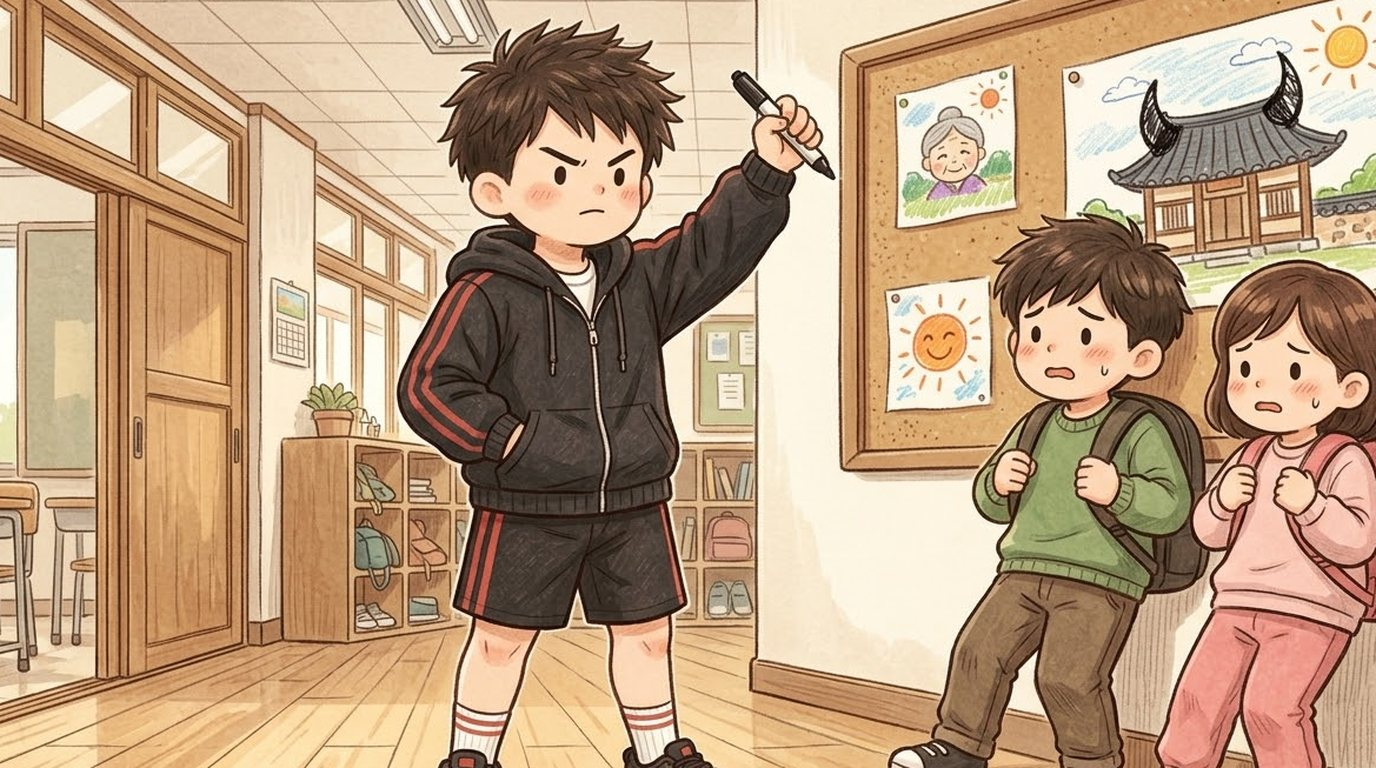
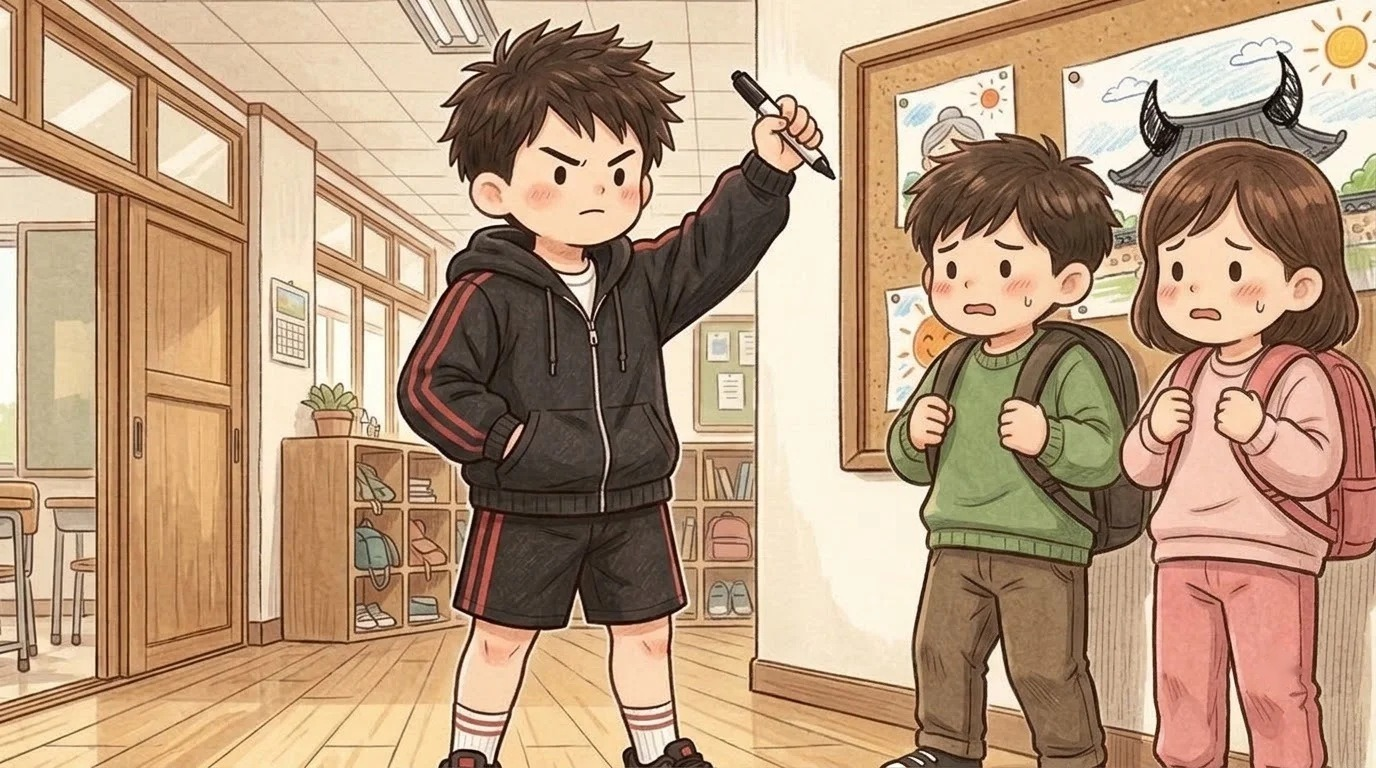
민호 13 복도: 초록·분홍 아이 키를 민호에 가깝게(그림 세션 Flow, 메인 크게 비교 확인)

diff --git a/index.html b/index.html
@@ -119,14 +119,14 @@ body,button{word-break:keep-all;overflow-wrap:break-word}
 <div id="fader"></div>
 <script>
 // same address, newest version: if the page this phone has kept is older than the one online, fetch the new one and reopen
-const BUILD='1108202656';
+const BUILD='1108202925';
 try{fetch(location.pathname,{cache:'no-store'}).then(r=>r.text()).then(t=>{const m=t.match(/const BUILD='(\d+)'/);if(m&&m[1]!==BUILD&&sessionStorage.getItem('upd')!==m[1]){sessionStorage.setItem('upd',m[1]);fetch(location.pathname,{cache:'reload'}).then(()=>location.reload())}}).catch(()=>{})}catch(e){}
 </script>
-<script src="i18n.js?v=1108202656"></script>
-<script src="i18n_prologue_v2.js?v=1108202656"></script>
-<script src="day2/i18n_engine.js?v=1108202656"></script>
-<script src="day2/data.js?v=1108202656"></script>
-<script src="day3/data.js?v=1108202656"></script>
+<script src="i18n.js?v=1108202925"></script>
+<script src="i18n_prologue_v2.js?v=1108202925"></script>
+<script src="day2/i18n_engine.js?v=1108202925"></script>
+<script src="day2/data.js?v=1108202925"></script>
+<script src="day3/data.js?v=1108202925"></script>
 <script>
 // ---------- data ----------
 const MW=1672,MH=941,KID=180;
@@ -569,36 +569,36 @@ function pickHero(){const m=document.getElementById('modal'),c=document.getEleme
  c.innerHTML=`<h2>${tr('전학생 반장되기')}</h2><p>${tr('한국말이 아직 서툰 전학생,<br>반장 선거에 나가다.')}</p><p style="margin-top:14px">${tr('누구로 할까요?')}</p>${(()=>{const s=loadSave();return s&&s.day>=2&&s.mode===UI+'-'+LANG?`<p><button class="big" id="cont">${tr('{n}일차부터 이어 하기').replace('{n}',s.day)}</button></p>`:''})()}<div class="pick heroes"><button data-h="hero_f"><img src="faces/hero_f_smile.jpg" alt="여자 주인공">${heroName(1)}</button><button data-h="hero_m"><img src="faces/hero_m_smile.jpg" alt="남자 주인공">${heroName(0)}</button></div>`;
  m.classList.add('on');{const cb=document.getElementById('cont');if(cb)cb.onclick=()=>{const s=loadSave();HERO=s.hero;Object.assign(HEART,s.heart||{});(s.found||[]).forEach(k=>FOUND.add(k));HEART_D1={...HEART};chime();(typeof contGame==='function'?contGame(s):startDay(Math.min(s.day,Object.keys(window.D3||{}).length?3:2)))}}c.querySelectorAll('.pick button').forEach(b=>b.onclick=()=>{HERO=b.dataset.h;m.classList.remove('on');chime();bgm('day');load('home_am');say([['nar','','이사 온 다음 날 아침. 아직 풀지 못한 상자들이 쌓여 있다.'],['think','sad','(오늘부터 새 학교야. 여기 말도 아직 서툰데…….)'],['think','smile','({m}한테 인사하고 학교 가야지.)']],morning)})}
 </script>
-<script src="day2/engine.js?v=1108202656"></script>
-<script src="day2/ep_minho.js?v=1108202656"></script>
-<script src="day2/meet.js?v=1108202656"></script>
-<script src="day2/ep_sua.js?v=1108202656"></script>
-<script src="day2/ep_hangyeol.js?v=1108202656"></script>
-<script src="day2/ep_siwoo.js?v=1108202656"></script>
-<script src="day2/ep_haram.js?v=1108202656"></script>
-<script src="day2/ep_jiho.js?v=1108202656"></script>
-<script src="day2/ep_hyeeun.js?v=1108202656"></script>
-<script src="day2/ep_haneul.js?v=1108202656"></script>
-<script src="day2/ep_junho.js?v=1108202656"></script>
-<script src="day2/ep_yuna.js?v=1108202656"></script>
-<script src="day2/ep_yena.js?v=1108202656"></script>
-<script src="day2/ep_haeun.js?v=1108202656"></script>
-<script src="day2/ep_youngmin.js?v=1108202656"></script>
-<script src="day2/ep_seah.js?v=1108202656"></script>
-<script src="day2/ep_jihoon.js?v=1108202656"></script>
-<script src="words_ja_ru.js?v=1108202656"></script>
-<script src="day2/mybag.js?v=1108202656"></script>
-<script src="day2/wordpics.js?v=1108202656"></script>
-<script src="day2/spots.js?v=1108202656"></script>
-<script src="day2/textfit.js?v=1108202656"></script>
-<script src="day2/tester.js?v=1108202656"></script>
-<script src="day2/ux.js?v=1108202656"></script>
-<script src="day2/tapword.js?v=1108202656"></script>
-<script src="day2/review.js?v=1108202656"></script>
-<script src="day2/plane.js?v=1108202656"></script>
-<script src="day2/bubble.js?v=1108202656"></script>
-<script src="day2/ep_ending.js?v=1108202656"></script>
-<script src="day2/ending.js?v=1108202656"></script>
+<script src="day2/engine.js?v=1108202925"></script>
+<script src="day2/ep_minho.js?v=1108202925"></script>
+<script src="day2/meet.js?v=1108202925"></script>
+<script src="day2/ep_sua.js?v=1108202925"></script>
+<script src="day2/ep_hangyeol.js?v=1108202925"></script>
+<script src="day2/ep_siwoo.js?v=1108202925"></script>
+<script src="day2/ep_haram.js?v=1108202925"></script>
+<script src="day2/ep_jiho.js?v=1108202925"></script>
+<script src="day2/ep_hyeeun.js?v=1108202925"></script>
+<script src="day2/ep_haneul.js?v=1108202925"></script>
+<script src="day2/ep_junho.js?v=1108202925"></script>
+<script src="day2/ep_yuna.js?v=1108202925"></script>
+<script src="day2/ep_yena.js?v=1108202925"></script>
+<script src="day2/ep_haeun.js?v=1108202925"></script>
+<script src="day2/ep_youngmin.js?v=1108202925"></script>
+<script src="day2/ep_seah.js?v=1108202925"></script>
+<script src="day2/ep_jihoon.js?v=1108202925"></script>
+<script src="words_ja_ru.js?v=1108202925"></script>
+<script src="day2/mybag.js?v=1108202925"></script>
+<script src="day2/wordpics.js?v=1108202925"></script>
+<script src="day2/spots.js?v=1108202925"></script>
+<script src="day2/textfit.js?v=1108202925"></script>
+<script src="day2/tester.js?v=1108202925"></script>
+<script src="day2/ux.js?v=1108202925"></script>
+<script src="day2/tapword.js?v=1108202925"></script>
+<script src="day2/review.js?v=1108202925"></script>
+<script src="day2/plane.js?v=1108202925"></script>
+<script src="day2/bubble.js?v=1108202925"></script>
+<script src="day2/ep_ending.js?v=1108202925"></script>
+<script src="day2/ending.js?v=1108202925"></script>
 <script>
 // the goal shows big for a few seconds, then folds into a small pill (tap it to open it again)
 {const g=document.getElementById('goal');let t=null;const big=()=>{g.classList.remove('mini');clearTimeout(t);t=setTimeout(()=>g.classList.add('mini'),4000)};
